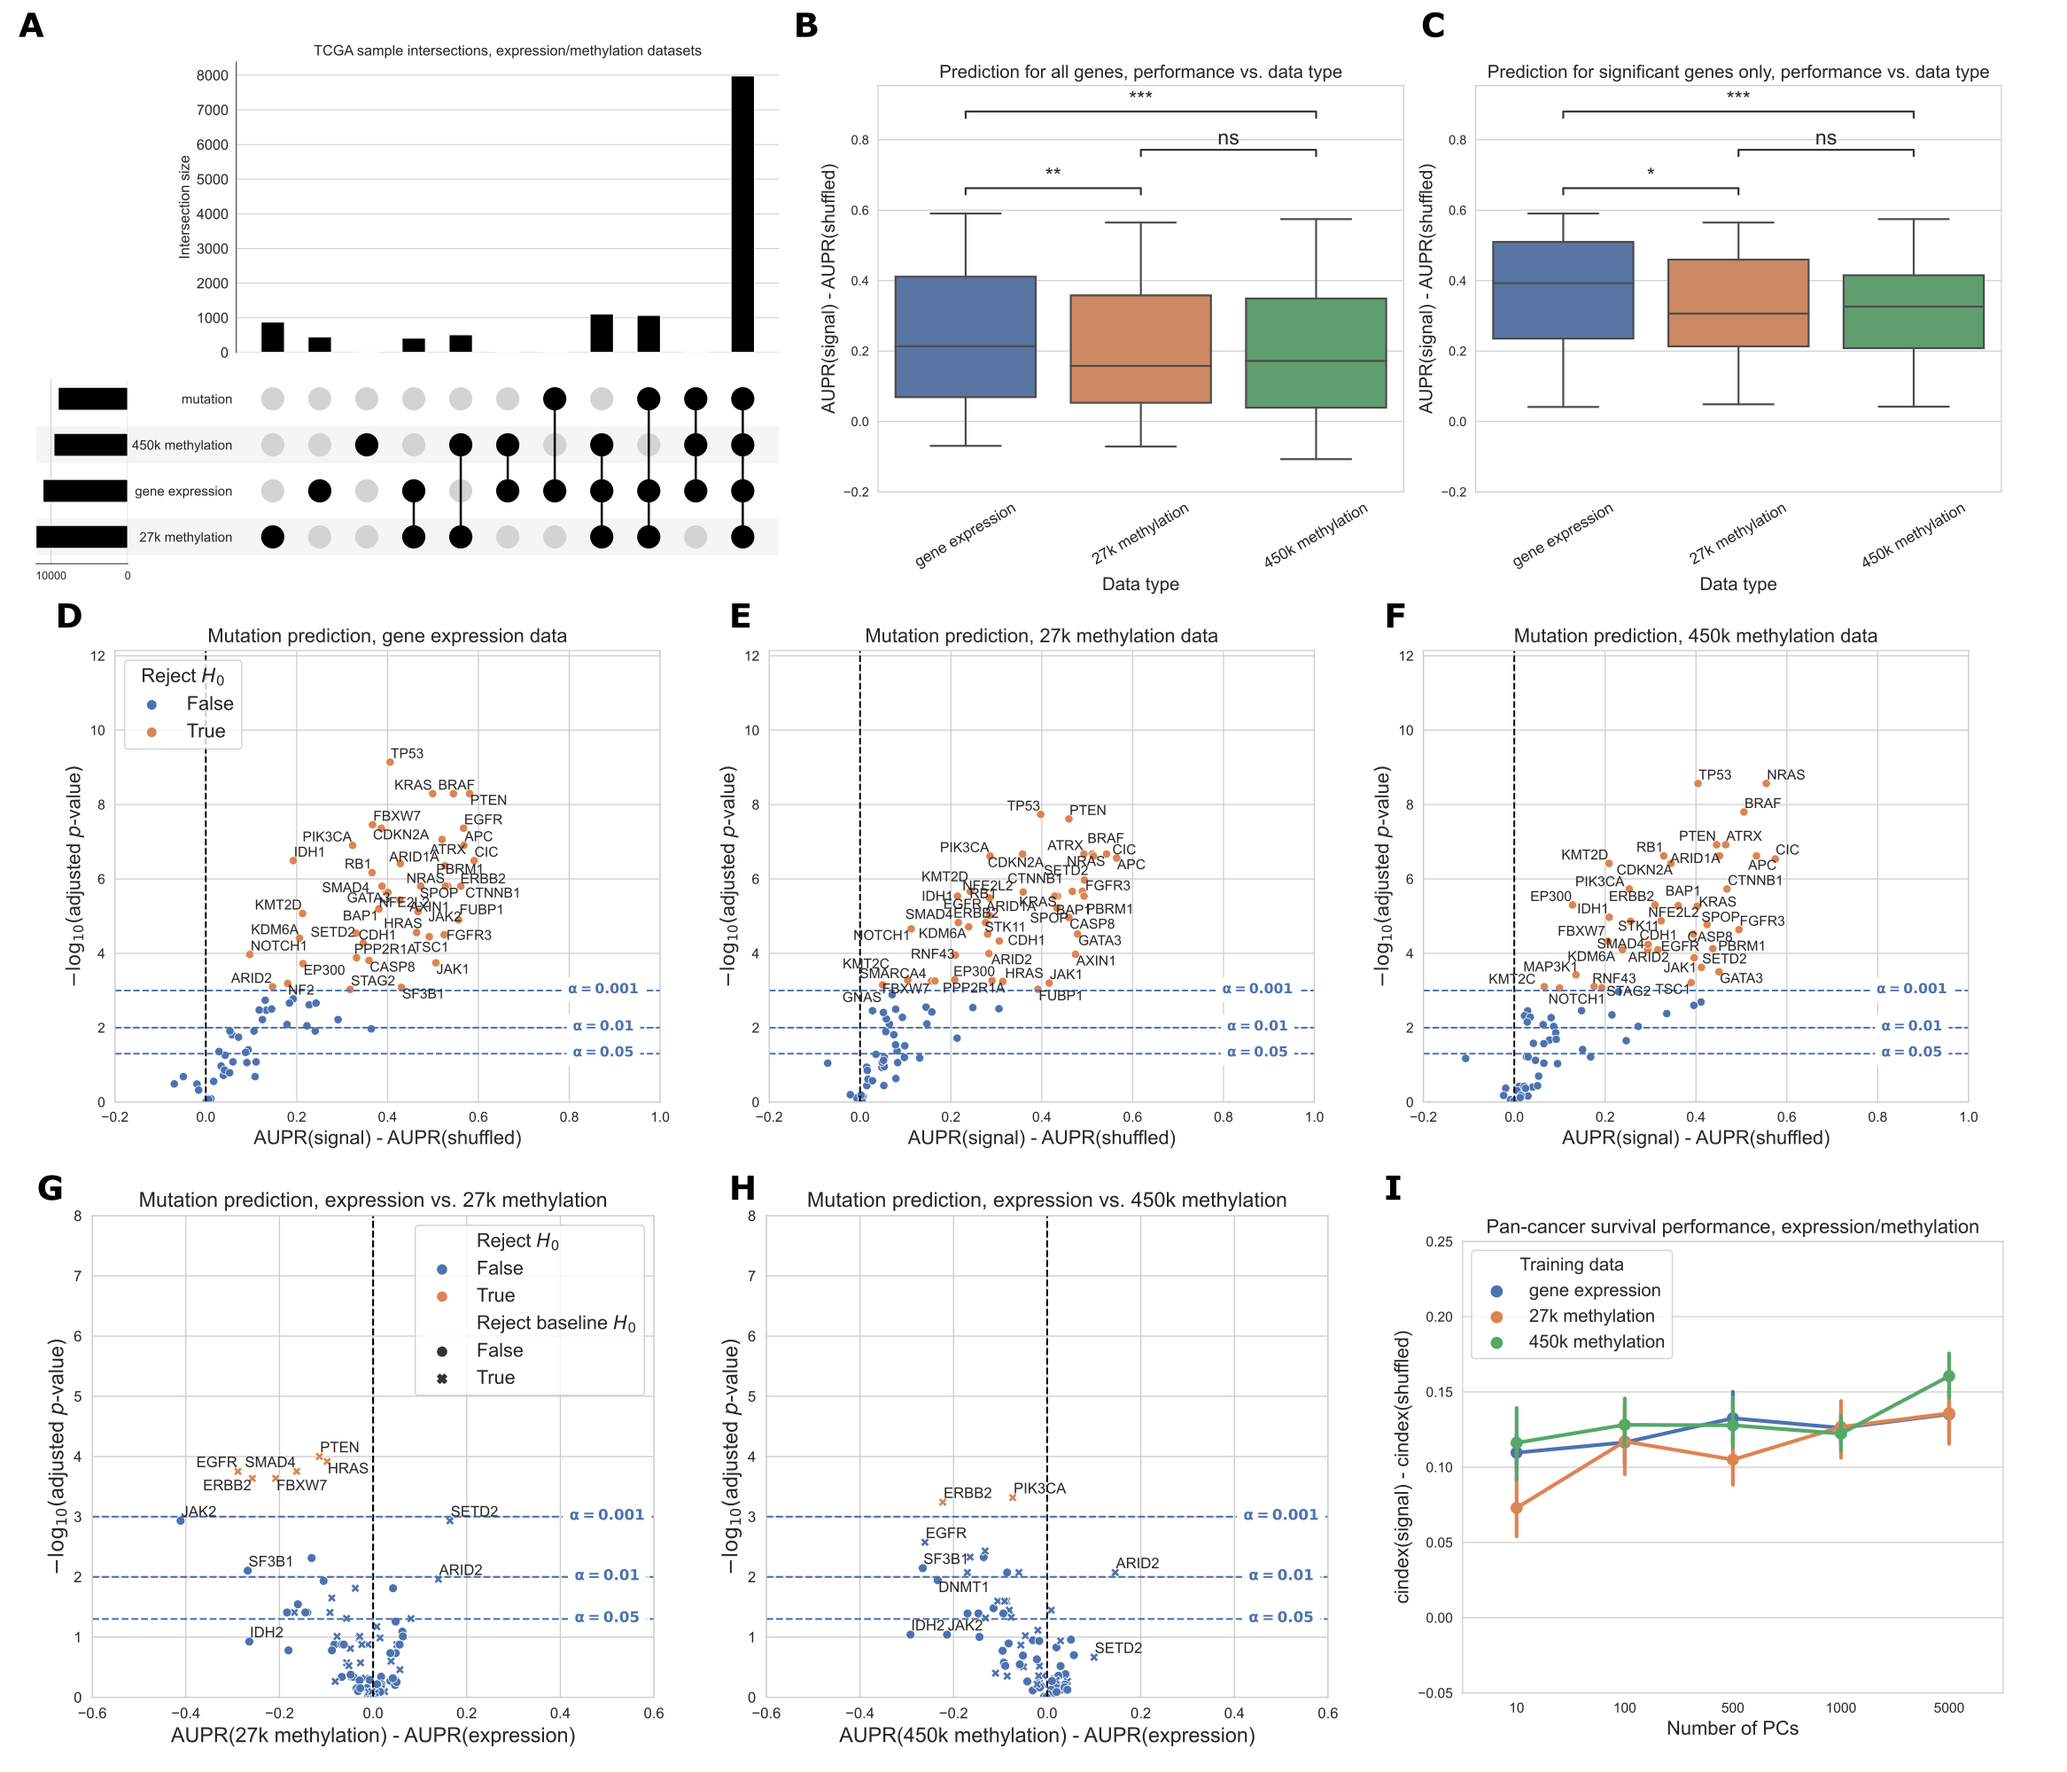
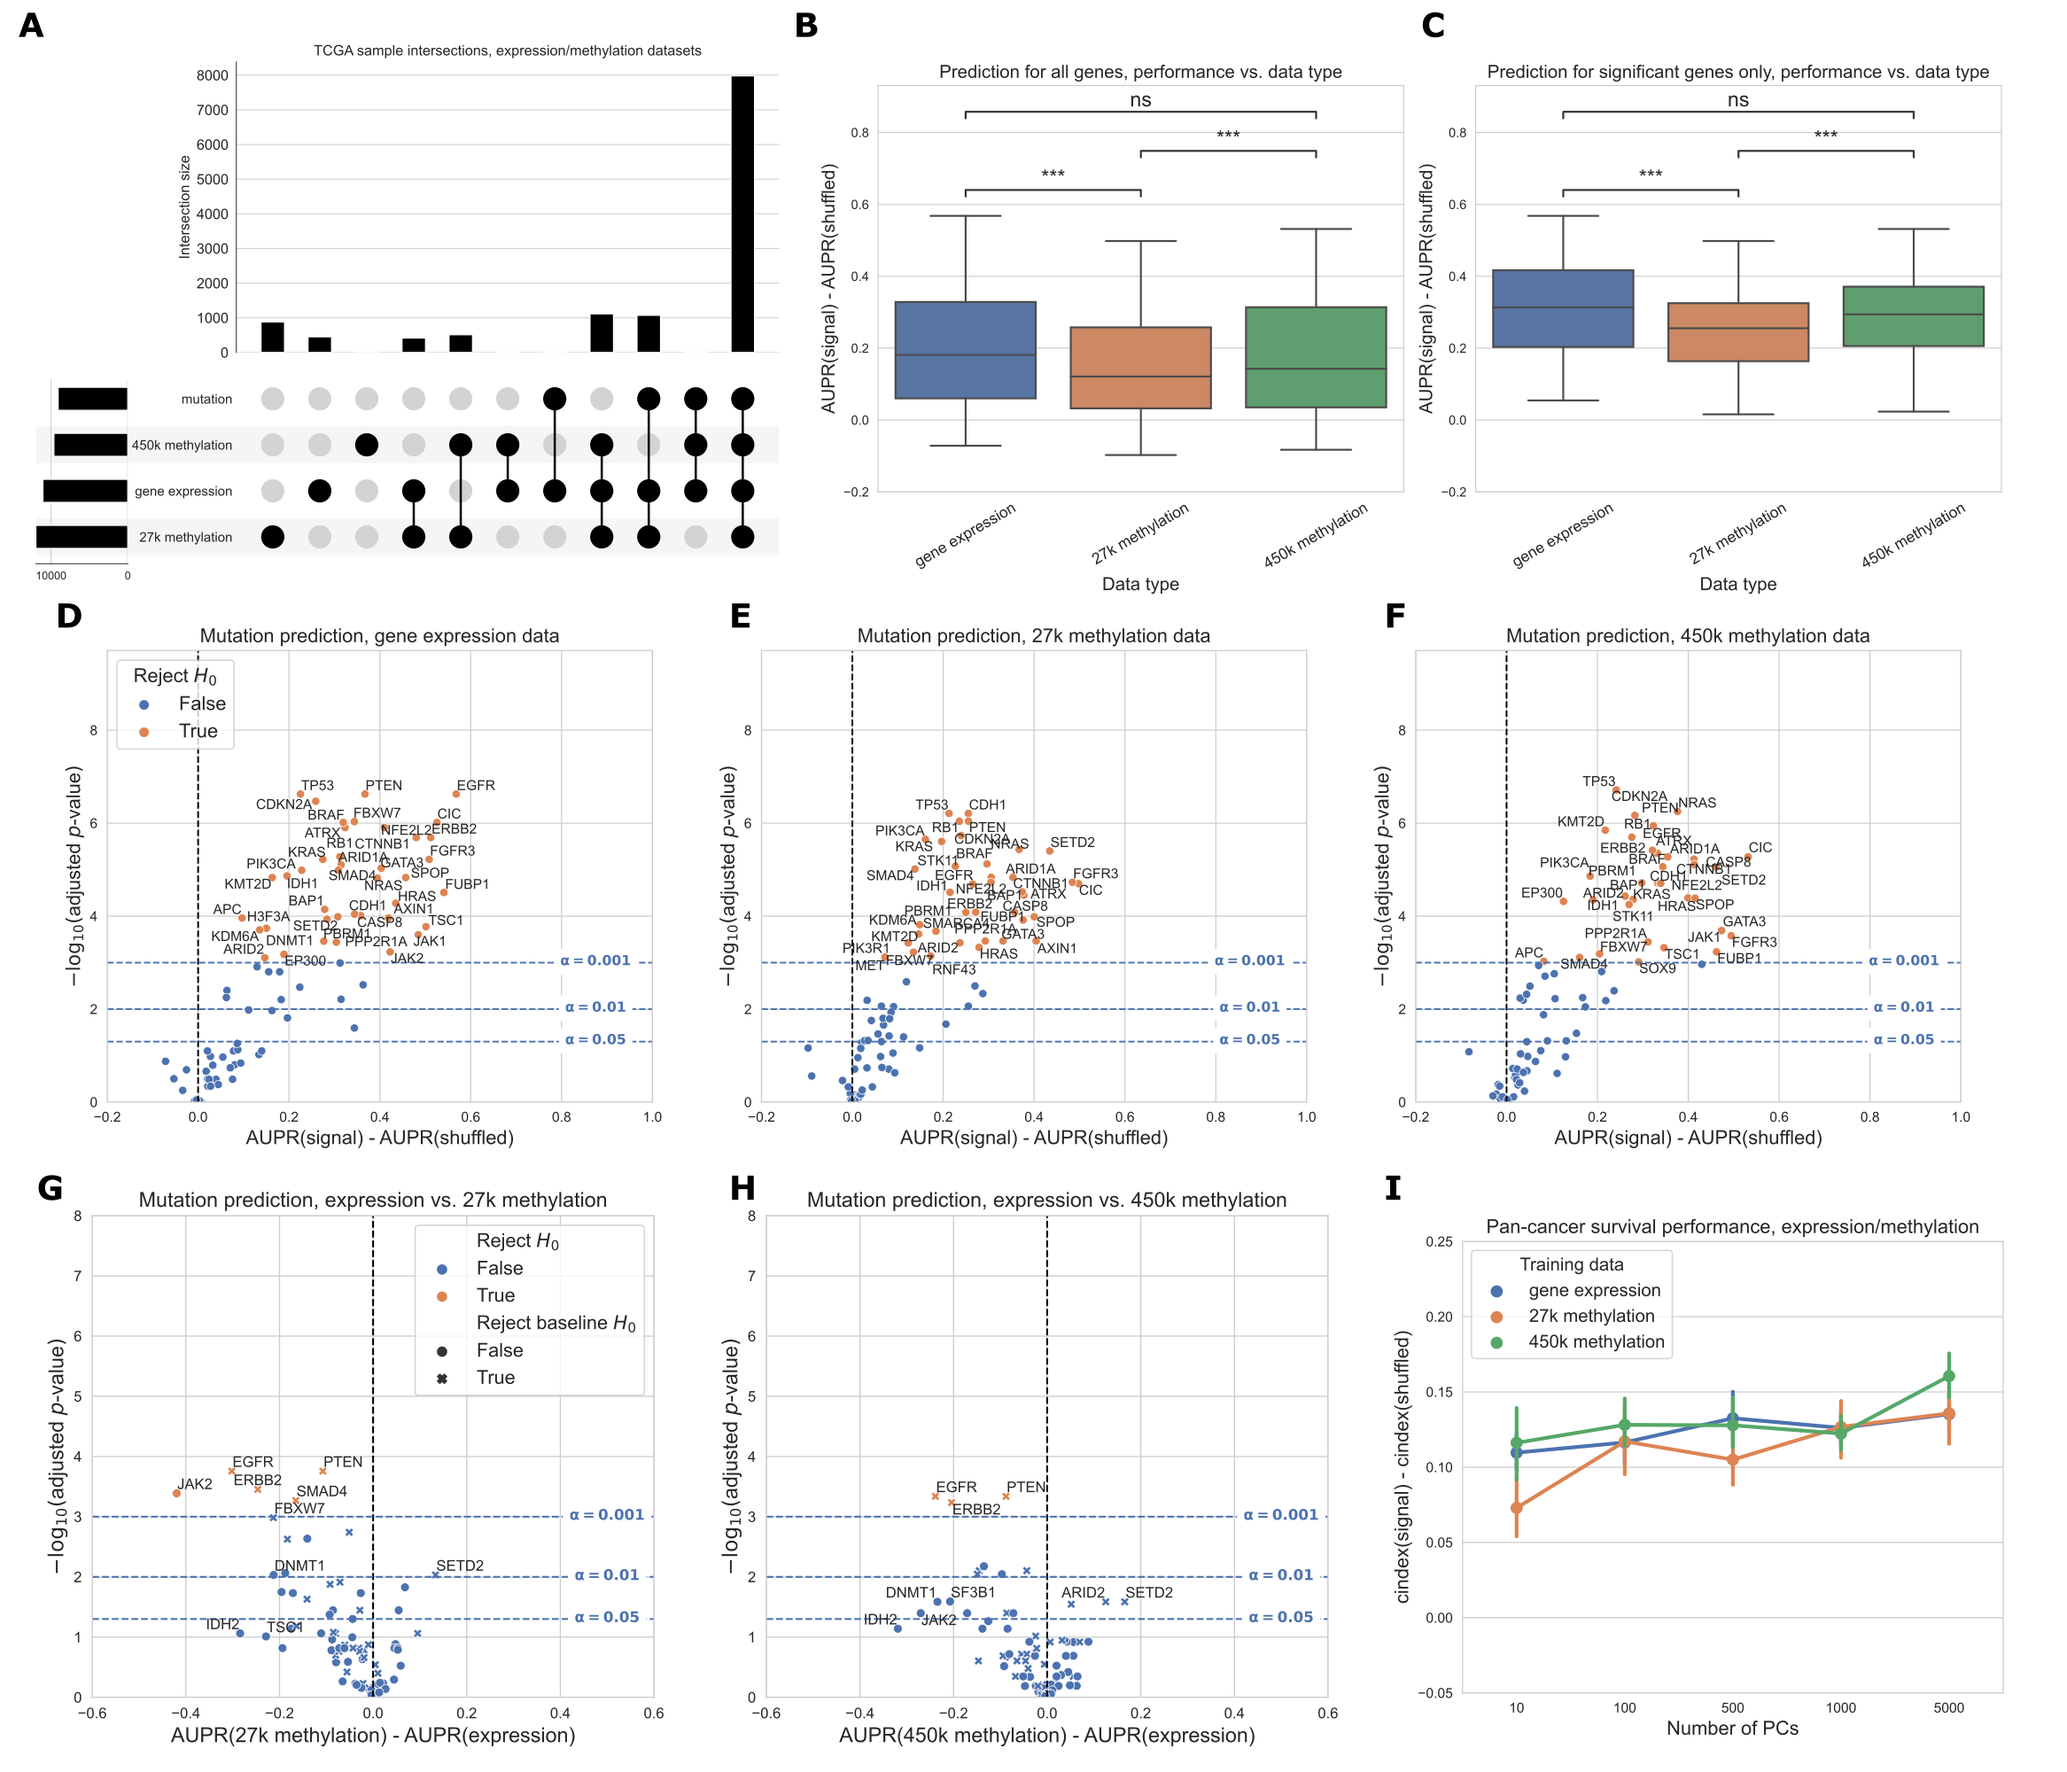
update methylation multi-panel figure and text

diff --git a/content/04.results.md b/content/04.results.md
@@ -56,18 +56,17 @@ We used samples that had data for each of the data types being compared, includi
 This process retained 7,981 samples in the intersection of the expression, 27K methylation, 450K methylation, and mutation datasets, which we used for subsequent analyses.
 The most frequent missing data types were somatic mutation data (1,114 samples) and 450K methylation data (1,072 samples) (Figure {@fig:methylation}A).
 
-For most genes, predictions are better than our baseline model where labels are permuted (most values greater than 0 in the box plots), suggesting that there is considerable predictive signal in both expression and methylation datasets across the Vogelstein et al. gene set (Figure {@fig:methylation}B).
+For most genes, predictions are better than our baseline model where labels are permuted (values greater than 0 in the box plots), suggesting that there is considerable predictive signal in both expression and methylation datasets across the Vogelstein et al. gene set (Figure {@fig:methylation}B).
 Performance distributions are similar for expression and methylation, and aggregate performance is also similar for models using both 8,000 raw features (genes or CpG probes for expression and methylation respectively, selected using mean absolute deviation) or 5,000 principal components.
-Both before and after filtering for genes that exceed the significance threshold, gene expression with raw gene features provides a significant performance improvement relative to the methylation datasets (Figure {@fig:methylation}B, C).
-This provides evidence that gene expression measurements may be a slightly better predictor of mutation status than DNA methylation, although we observed no significant difference between aggregate performance using 27k methylation and 450k methylation.
+Both before and after filtering for genes that exceed the significance threshold, gene expression with raw gene features provides a significant performance improvement relative to the 27K methylation dataset, but gene expression and 450K methylation have statistically equivalent performance distributions (Figure {@fig:methylation}B, C).
 Results were similar with PCA-compressed gene expression features or raw CpG probes as predictors (Supplementary Figure {@fig:me_compress_boxes}).
 
-Considering each target gene in the Vogelstein gene set individually, we observed that 42/84 genes significantly outperformed the permuted baseline using gene expression data, as compared to 42/84 genes for 27K methylation and 39/84 genes for 450K methylation (Figure {@fig:methylation}D-F, more information in Supplementary Figure {@fig:methylation_heatmap}).
+Considering each target gene in the Vogelstein gene set individually, we observed that 40/84 genes significantly outperformed the permuted baseline using gene expression data, as compared to 38/84 genes for 27K methylation and 37/84 genes for 450K methylation (Figure {@fig:methylation}D-F, more information about specific genes in Supplementary Figure {@fig:methylation_heatmap}).
 In most cases, these "well-predicted" genes that outperformed the permuted baseline tended to be similar between data types (Figure {@fig:methylation}D-F; genes in the top right of each plot).
 For example, _TP53_, _BRAF_, and _PTEN_ appear in the top right of all 3 plots, suggesting that mutations in these genes have strong gene expression and DNA methylation signatures, and these signatures tend to be preserved across cancer types.
 
 In addition to comparing mutation classifiers trained on different data types to the permuted baseline, we also compared classifiers trained on true labels directly to each other, using a similar methodology (Figure {@fig:methylation}G-H).
-We observed that 6/100 genes were significantly more predictable from expression data than 27K methylation data, and 2/100 genes were significantly more predictable from expression data than 450K methylation data.
+We observed that 5/100 genes were significantly more predictable from expression data than 27K methylation data, and 3/100 genes were significantly more predictable from expression data than 450K methylation data.
 In both cases, 0/100 genes were significantly more predictable using the methylation data types.
 For both comparisons (expression vs. 27K methylation and expression vs. 450K methylation), we observed that the majority of points were clustered around the origin, indicating that the data types appear to confer similar information about mutation status.
 Additionally, many genes near the origin are significantly predictable vs. the shuffled baseline (labeled with an "X" in Figure {@fig:methylation}G-H), but equally predictable between data types (blue shading in Figure {@fig:methylation}G-H).
